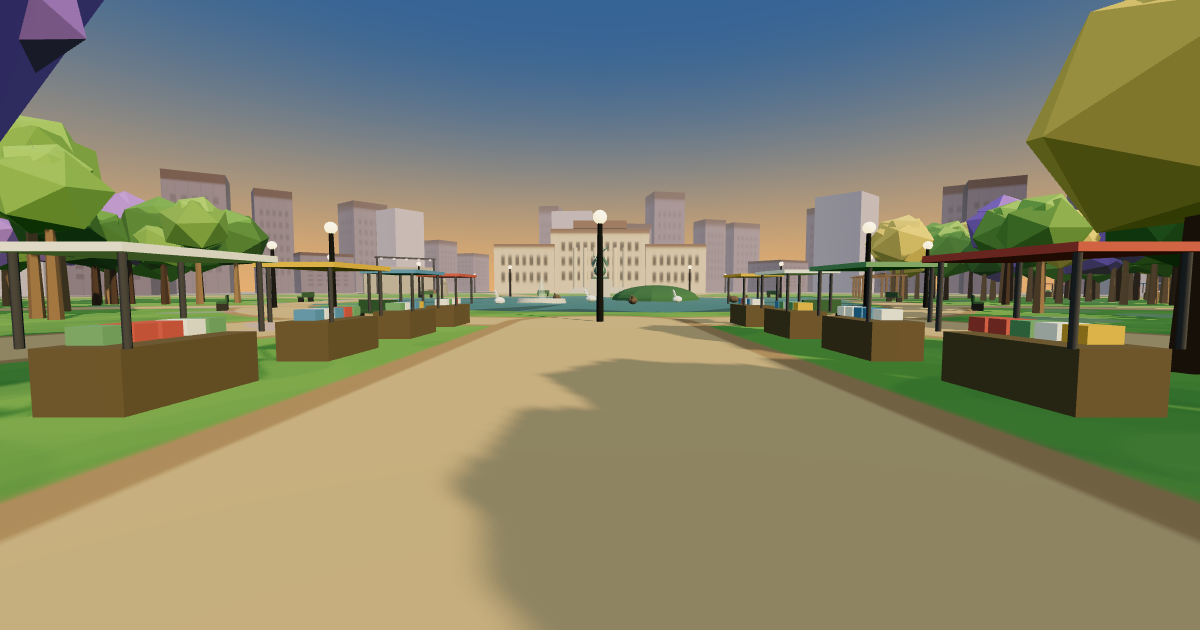
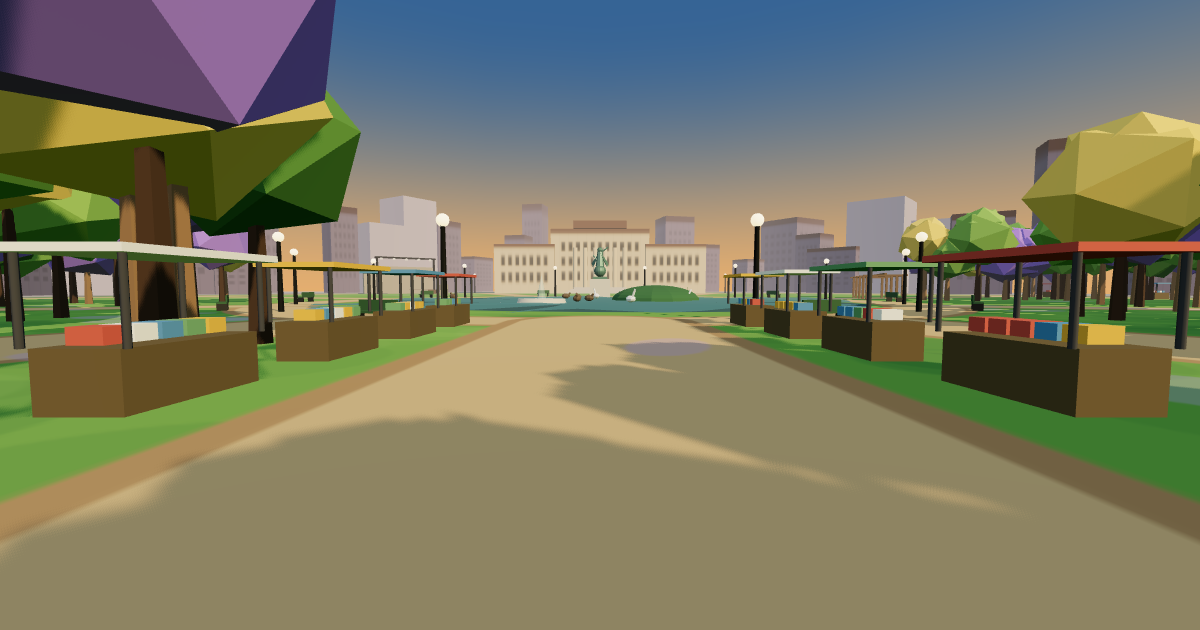
Mobile polish: reflow hint by device + clear the spawn sightline
- HUD hint now shows only touch controls on coarse-pointer devices
  (drops the irrelevant wasd/flechas line on phones).
- Offset the inner lamp ring so no farola bisects the Victoria Alada
  on the spawn vista. Regenerated the OG image to match.

diff --git a/src/style.css b/src/style.css
@@ -211,6 +211,19 @@ body {
   opacity: 0;
 }
 
+/* reflow the hint by device: keyboard hints on desktop, touch hints on phones */
+.hint .touch {
+  display: none;
+}
+@media (pointer: coarse) {
+  .hint .kb {
+    display: none;
+  }
+  .hint .touch {
+    display: inline;
+  }
+}
+
 .sig {
   position: fixed;
   right: 16px;

diff --git a/src/main.js b/src/main.js
@@ -850,7 +850,8 @@ function addLamps() {
     spots.push([Math.cos(a) * 84, Math.sin(a) * 84]);
   }
   for (let k = 0; k < 12; k++) {
-    const a = (k / 12) * Math.PI * 2;
+    // half-step phase so no lamp lands dead-centre on the spawn sightline
+    const a = (k / 12) * Math.PI * 2 + Math.PI / 12;
     spots.push([Math.cos(a) * 31, Math.sin(a) * 31]);
   }
   const poles = new THREE.InstancedMesh(poleGeo, poleMat, spots.length);

diff --git a/index.html b/index.html
@@ -49,7 +49,7 @@
     <div id="hud" class="hud hidden">
       <div class="chip place-chip">📍 parque centenario</div>
       <button id="sound" class="chip sound" aria-pressed="false" title="sonido">♪ sonido</button>
-      <div class="hint">wasd / flechas: caminar · arrastrá o deslizá: mirar · mantené pulsado: avanzar</div>
+      <div class="hint"><span class="kb">wasd / flechas: caminar · </span>arrastrá o deslizá: mirar<span class="touch"> · mantené pulsado: avanzar</span></div>
       <a class="sig" href="https://laurino.me">laurino.me</a>
     </div>
 